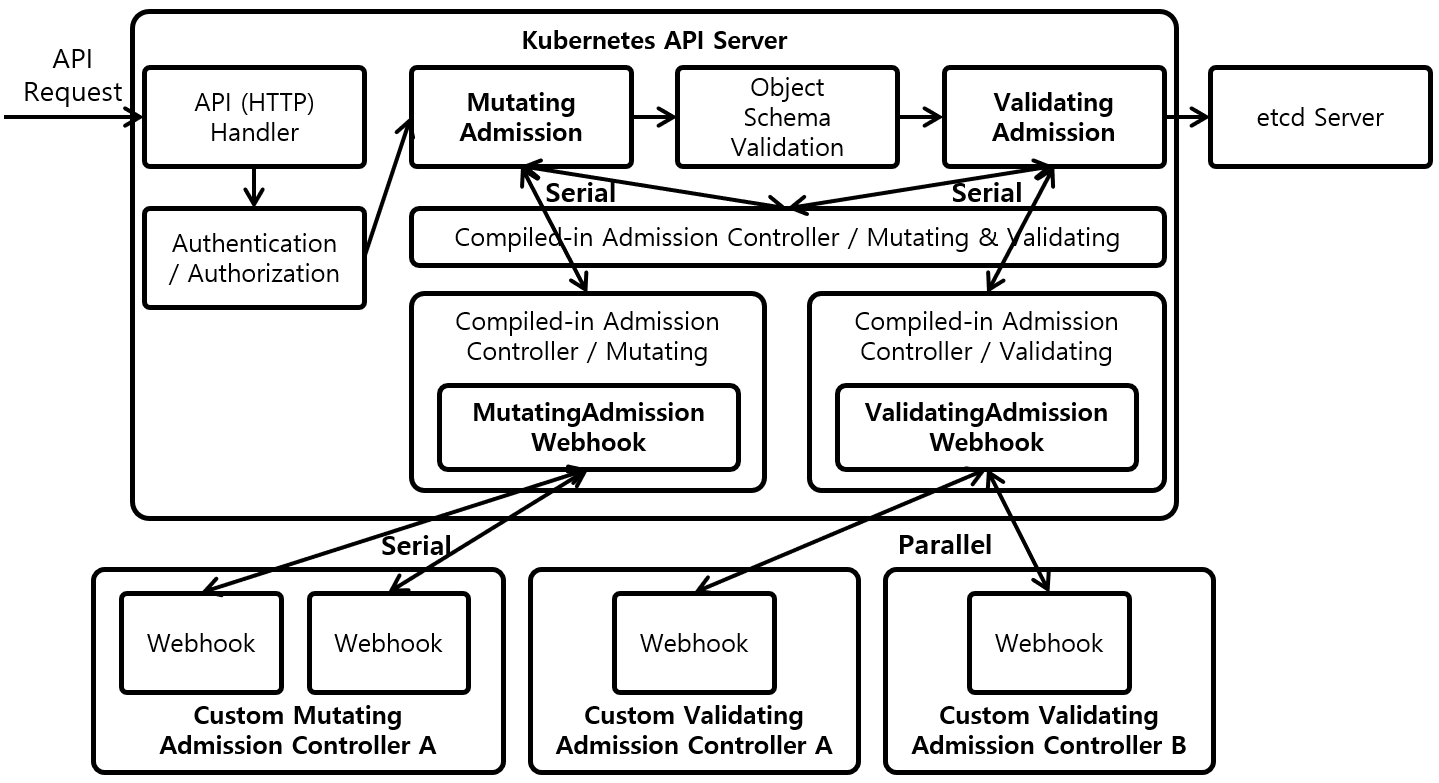
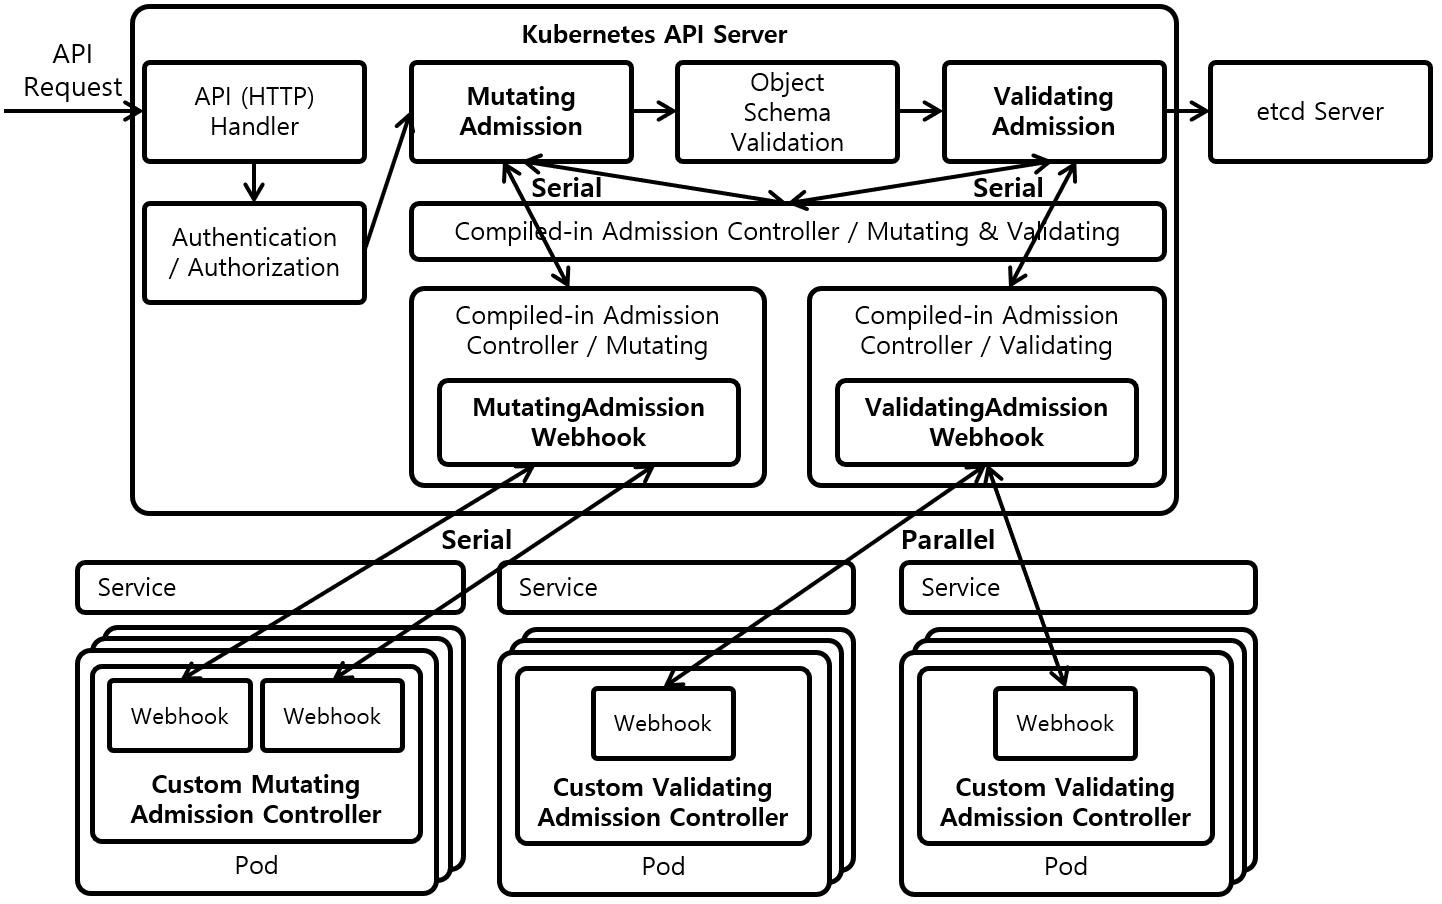
Update

Changed region(s): [[0.0, 0.0, 1.0, 1.0]]

diff --git a/_docs/theory_analysis/Kubernetes_Admission_Controller.md b/_docs/theory_analysis/Kubernetes_Admission_Controller.md
@@ -13,7 +13,7 @@ Kubernetes의 Admission Controller를 분석한다.
 
 ![[그림 1] Kubernetes Admission Controller]({{site.baseurl}}/images/theory_analysis/Kubernetes_Admission_Controller/Kubernetes_Admission_Controller.PNG){: width="700px"}
 
-Kubernetes Admission Controller는 Kubernetes API 처리 과정을 Hooking하여, Kubernetes의 기능을 확장하는 역활을 수행하는 Controller를 의미한다. Kubernetes는 Admission Controller를 통해서 보안, 정책 및 설정 관련 기능을 확장하고 있다. [그림 1]은 Kubernetes Admission Controller를 나타내고 있다. Kubernetes API Server는 API 요청 처리 과정 사이에 Kubernetes API Server 내부에 포함된 Compiled-in Admission Controller들에게 하나씩 차례대로 API 요청을 전달한다. API 요청을 받은 Admission Controller는 해당 API 요청을 거절, 승인 또는 변경&승인 할 수 있다.
+Kubernetes Admission Controller는 Kubernetes API 처리 과정을 Hooking하여, Kubernetes의 기능을 확장하는 역활을 수행하는 Controller를 의미한다. Kubernetes는 Admission Controller를 통해서 보안, 정책 및 설정 관련 기능을 확장하고 있다. [그림 1]은 Kubernetes Admission Controller를 나타내고 있다. Kubernetes API Server는 API 요청 처리 과정 사이에 Kubernetes API Server 내부에 포함된 Compiled-in Admission Controller들에게 하나씩 순차적으로 API 요청을 전달한다. API 요청을 받은 Admission Controller는 해당 API 요청을 거절, 승인 또는 변경&승인 할 수 있다.
 
 Admission Controller로 부터 거절 응답을 받은 Kubernetes API 서버는 해당 API 요청 처리를 중단한다. Admission Controller로 부터 승인 응답을 받은 Kubernetes API 서버는 다음 Admission Controller에게 동일한 API 요청을 전달하고 응답을 기다린다. 변경&승인 응답을 받은 Kubernetes API 서버는 다음 Admission Controller에게 변경된 API 요청을 전달하고 응답을 기다린다. 이런식으로 활성화된 모든 Admission Controller를 지나간 API 요청만이 etcd에 저장되어 반영된다.
 
@@ -23,13 +23,19 @@ Admission Controller는 Kubernetes API Server와 같이 Compile된 **Compiled-in
 
 #### 1.1. Compiled-in Admission Controller
 
-Kubernetes API Server에는 다양한 Compiled-in Admission Controller가 Kubernetes API Server에 포함되어 있으며 Kubernetes API Server의 "--enable-admission-plugins" Option을 통해서 이용할 Compiled-in Admission Controller만 활성화 할 수 있다. Compiled-in Admission Controller는 필요에 따라서 Mutating Hook만 이용하는 Controller, Validating Hook만 이용하는 Controller, Mutating Hook과 Validating Hook을 모두 이용하는 Controller로 구분할 수 있다. Mutating Hook을 이용하는 Controller는 [MutationInterface](https://github.com/kubernetes/kubernetes/blob/v1.19.2/staging/src/k8s.io/apiserver/pkg/admission/interfaces.go#L129)의 Admit() 함수를 구현해야 하며, Validating Hook을 이용하는 Controller는 [ValidationInterface](https://github.com/kubernetes/kubernetes/blob/f5743093fd1c663cb0cbc89748f730662345d44d/staging/src/k8s.io/apiserver/pkg/admission/interfaces.go#L138)의 Validat() 함수를 구현해야 한다.
+Compiled-in Admission Controller는 Kubernetes API Server와 같이 Compile되어 존재하는 Admission Controller를 의미한다. Kubernetes API Server의 "--enable-admission-plugins" Option을 통해서 이용할 Compiled-in Admission Controller만 활성화 할 수 있다. Compiled-in Admission Controller는 필요에 따라서 Mutating Hook만 이용하는 Controller, Validating Hook만 이용하는 Controller, Mutating Hook과 Validating Hook을 모두 이용하는 Controller로 구분할 수 있다. Mutating Hook을 이용하는 Controller는 [MutationInterface](https://github.com/kubernetes/kubernetes/blob/v1.19.2/staging/src/k8s.io/apiserver/pkg/admission/interfaces.go#L129)의 Admit() 함수를 구현해야 하며, Validating Hook을 이용하는 Controller는 [ValidationInterface](https://github.com/kubernetes/kubernetes/blob/f5743093fd1c663cb0cbc89748f730662345d44d/staging/src/k8s.io/apiserver/pkg/admission/interfaces.go#L138)의 Validat() 함수를 구현해야 한다.
 
 DefaultIngressClass Admission Controller는 Mutating Hook만을 이용하는 Compiled-in Admission Controller이다. Mutating Hook은 Ingress Class가 설정되어 있지 않는 Ingress의 Ingress Class를 Default Ingress Class로 설정하는 용도로 이용한다. NamespaceExists Admission Controller는 Validating Hook만을 이용하는 Compiled-in Admission Controller이다. Validating Hook은 존재하지 않는 Namespace 관련 API 요청을 거절하는 용도로 이용한다. 
 
 ServiceAccount Admission Controller는 Mutating Hook과 Validating Hook을 둘다 이용하는 Compiled-in Admission Controller이다. Mutating Hook은 Service Account가 설정되어 있지 않는 Pod에 Default Service Account를 설정하고, 설정된 Service Account의 Token을 Pod 내부에서 얻을수 있도록 Pod에 Mount 설정을 추가하는 용도로 이용한다. Validating Hook은 Pod에 설정된 Service Account가 실제 유효한지 검사하는 용도로 이용한다. 이처럼 Kubernetes의 많은 기능들이 Compiled-in Admission Controller를 통해서 구현된다.
 
-#### 1.2. Custom Admission Controller Registration
+#### 1.2. Custom Admission Controller
+
+Custom Admission Controller는 Kubernetes API Server 외부에서 동작하는 Kubernetes User가 개발한 Admission Controller를 의미한다. Custom Admission Controller의 동작을 이해하기 위해서는 Compiled-in Admission Controller인 MutatingAdmissionWebhook Controller와 ValidatingAdmissionWebhook Controller의 역활을 이해하고 있어야한다. 
+
+[그림 1]은 MutatingAdmissionWebhook Controller와 ValidatingAdmissionWebhook Controller의 동작도 나타내고 있다. MutatingAdmissionWebhook Controller는 Mutating Hook을 이용하여 API 요청을 Custom Admission Controller의 Webhook에 전달한다. API 요청이 전달되어야 Custom Admission Controller 및 Webhook이 다수 존재한다면 API 요청을 하나씩 순차적으로 Custom Admission Controller에게 전달하고 응답을 대기하는 동작을 반복한다. ValidationAdmissionWebhook은 Validating Hook을 이용하여 API 요청을 Custom Admission Controller의 Webhook에 전달한다. API 요청이 전달되어야 Custom Admission Controller 및 Webhook이 다수 존재한다면 API 요청을 동시에 Custom Admission Controller에게 전달하고 응답을 대기하는 동작을 반복한다.
+
+Custom Admission Controller는 HA (High Availability)를 위해서 다수의 Pod에서 동작하며, Service를 통해서 묶여 있다. MutatingAdmissionWebhook Controller와 ValidatingAdmissionWebhook Controller은 Custom Admission Controller Pod의 Service를 통해서 API 요청을 전달한다.
 
 {% highlight yaml %}
 apiVersion: admissionregistration.k8s.io/v1
@@ -90,6 +96,10 @@ apiVersion: admissionregistration.k8s.io/v1
 <figure>
 <figcaption class="caption">[파일 2] ValidatingWebhookConfiguration</figcaption>
 </figure>
+
+Custom Admission Controller가 MutatingAdmissionWebhook Controller로부터 API 요청을 전달받기 위해서는 Custom Admission Controller를 MutatingAdmissionWebhook Controller에 등록해야 한다. MutatingWebhookConfiguration 파일을 통해서 Custom Admission Controller를 MutatingAdmissionWebhook Controller에게 등록할 수 있다. [파일 1]은 MutatingWebhookConfiguration 파일을 나타내고 있다. 이와 유사하게 Custom Admission Controller가 ValidatingAdmissionWebhook Controller로부터 API 요청을 전달받기 위해서는 Custom Admission Controller를 ValidatingAdmissionWebhook Controller에 등록해야 한다. ValidatingWebhookConfiguration 파일을 통해서 Custom Admission Controller를 ValidatingAdmissionWebhook Controller에게 등록할 수 있다. [파일 2]는 ValidatingWebhookConfiguration 파일을 나타내고 있다.
+
+MutatingWebhookConfiguration와 ValidatingWebhookConfiguration은 동일한 형태로 구성되어 있는걸 확인할 수 있다.
 
 {% highlight yaml %}
 {
